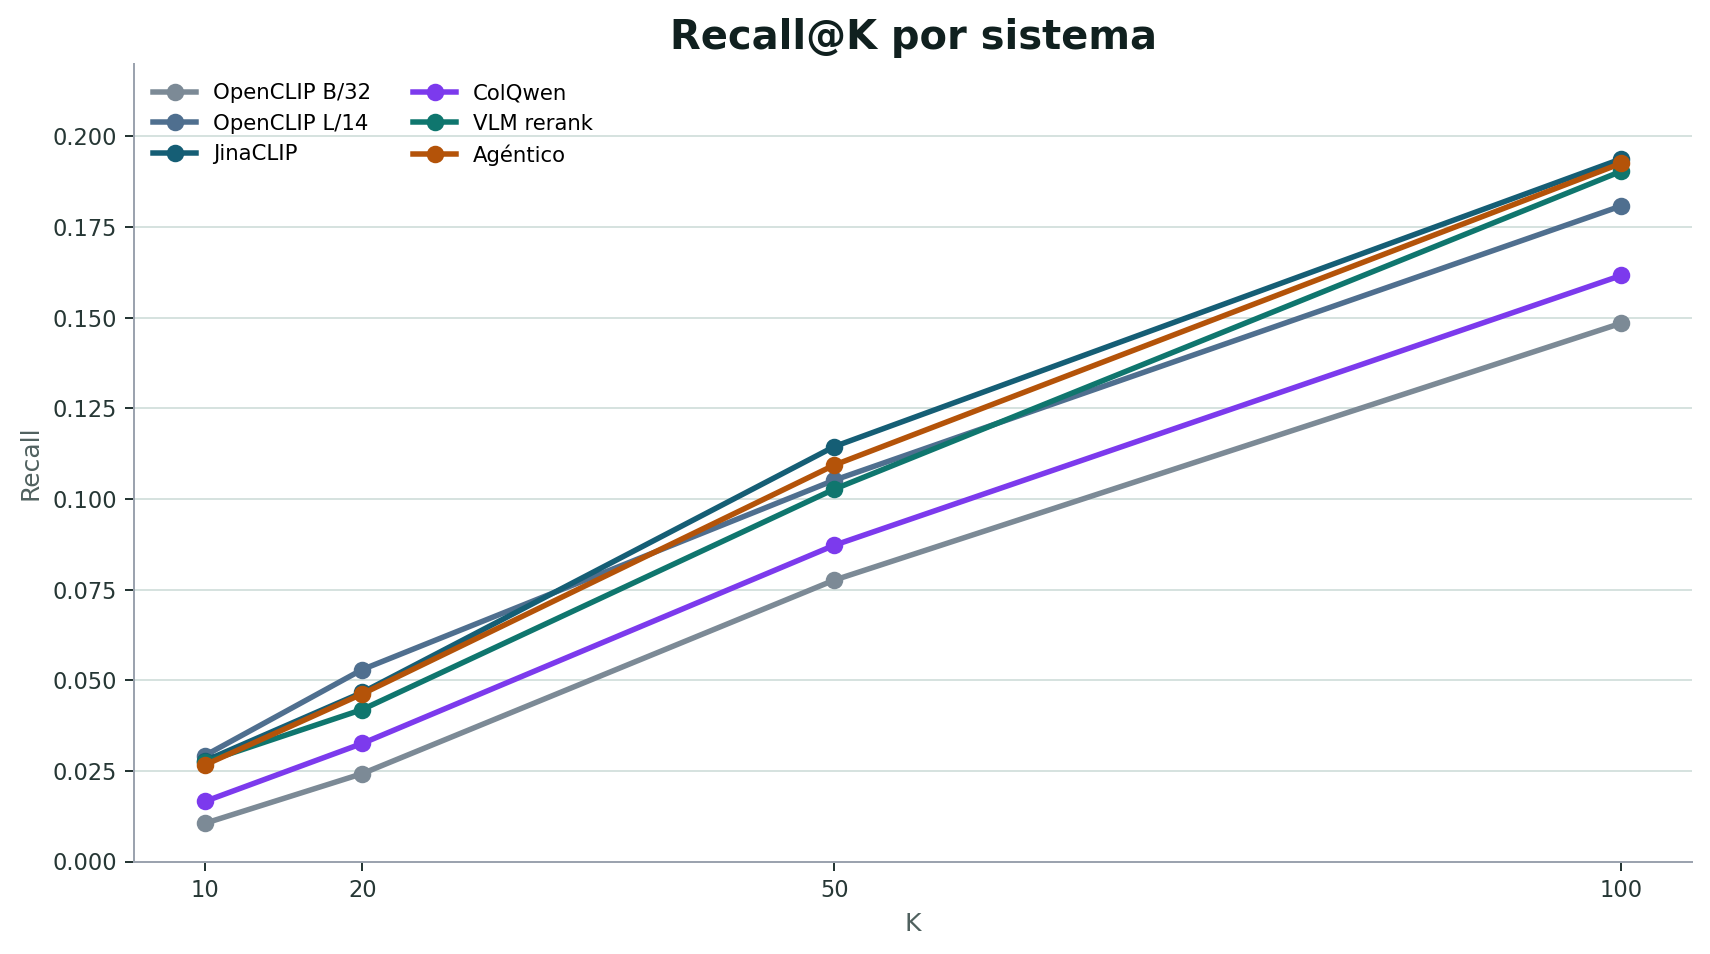
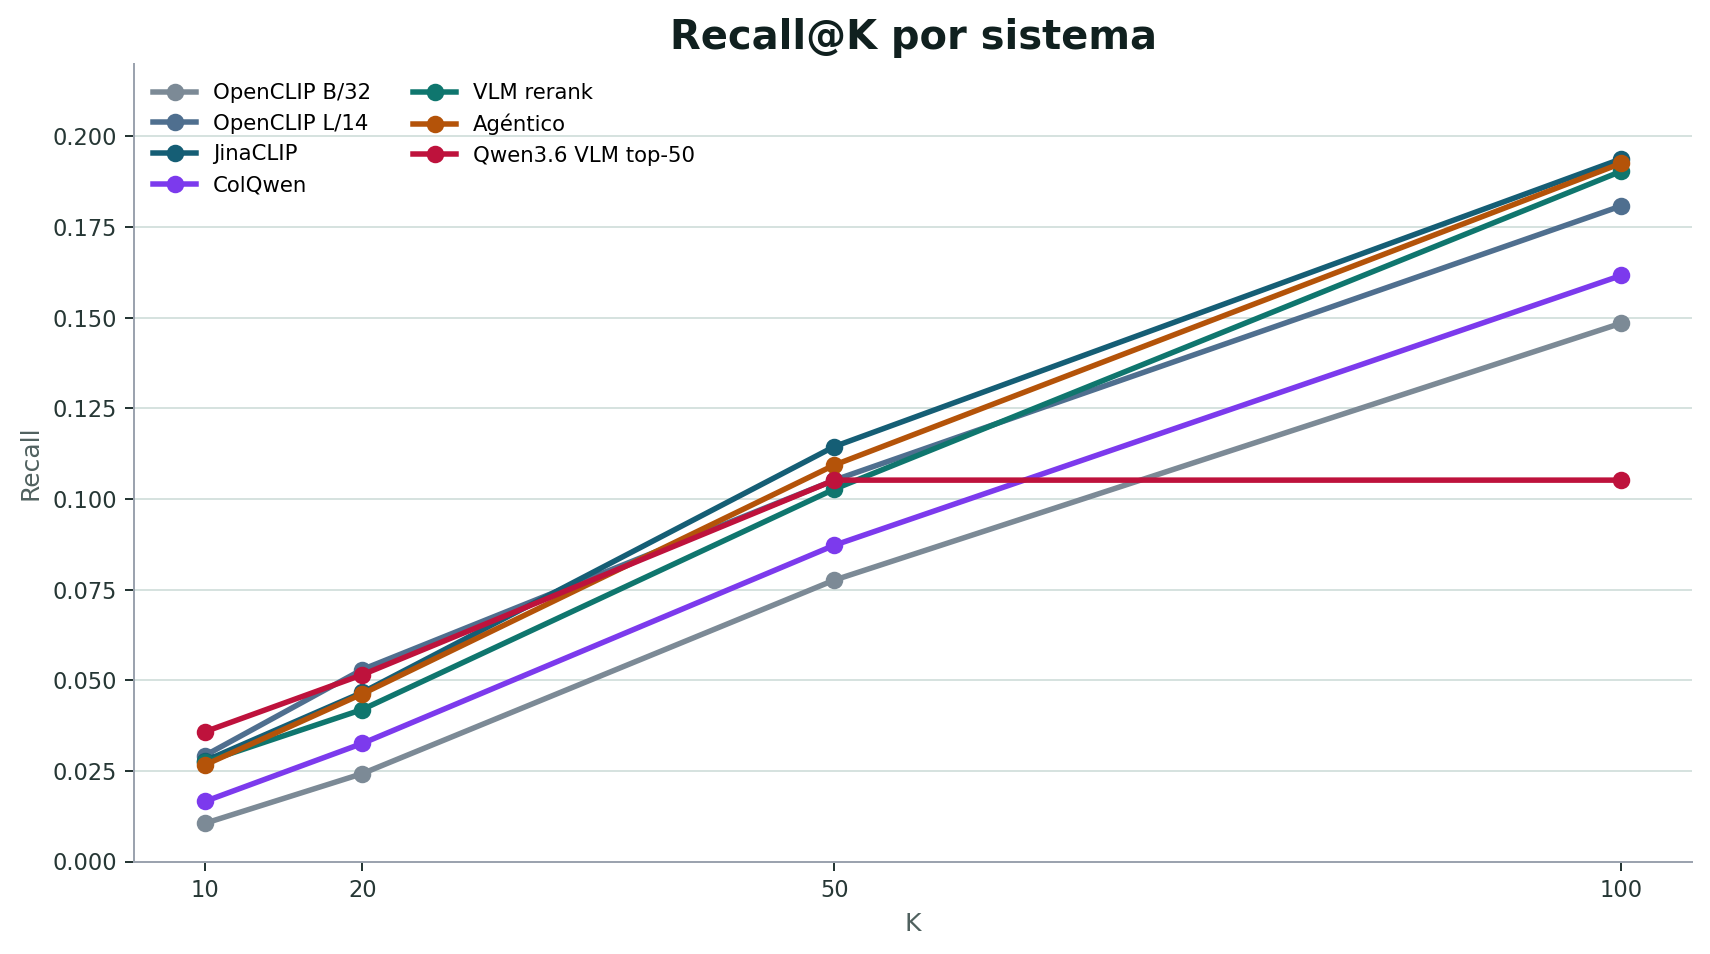
Integrate Qwen3.6 results into slides

diff --git a/slides/slidev/style.css b/slides/slidev/style.css
@@ -238,6 +238,10 @@
   object-fit: contain;
 }
 
+.chart.recall {
+  max-height: 392px;
+}
+
 .chart.inset {
   max-width: 100%;
   max-height: 392px;

diff --git a/scripts/build_slide_figures.py b/scripts/build_slide_figures.py
@@ -5,6 +5,8 @@ from __future__ import annotations
 
 import csv
 import json
+from collections import defaultdict
+from datetime import datetime
 from pathlib import Path
 
 import matplotlib.pyplot as plt
@@ -12,18 +14,19 @@ import pandas as pd
 
 
 RESULTS = Path("results/esalab-big/2026-06-30_gpu_full/outputs")
+QWEN_RESULTS = Path("results/mida-qwen36-27b/2026-06-30_zero_shot_top50/outputs")
 ASSETS = Path("slides/slidev/assets")
 
-SYSTEM_LABELS = {
-    "B1_openclip-vitb32_test": "OpenCLIP B/32",
-    "B1_openclip-vitl14_test": "OpenCLIP L/14",
-    "B1_jinaclip_test": "JinaCLIP",
-    "B3_colqwen_test": "ColQwen",
-    "B4_test": "VLM rerank",
-    "B5_full_test": "Agéntico",
-}
+SYSTEMS = [
+    (RESULTS, "B1_openclip-vitb32_test", "OpenCLIP B/32"),
+    (RESULTS, "B1_openclip-vitl14_test", "OpenCLIP L/14"),
+    (RESULTS, "B1_jinaclip_test", "JinaCLIP"),
+    (RESULTS, "B3_colqwen_test", "ColQwen"),
+    (RESULTS, "B4_test", "VLM rerank"),
+    (RESULTS, "B5_full_test", "Agéntico"),
+    (QWEN_RESULTS, "B4_qwen36_zero_shot_test", "Qwen3.6 VLM top-50"),
+]
 
-SYSTEM_ORDER = list(SYSTEM_LABELS)
 PALETTE = {
     "OpenCLIP B/32": "#7c8a96",
     "OpenCLIP L/14": "#4f6f8f",
@@ -31,6 +34,7 @@ PALETTE = {
     "ColQwen": "#7c3aed",
     "VLM rerank": "#0f766e",
     "Agéntico": "#b45309",
+    "Qwen3.6 VLM top-50": "#be123c",
 }
 
 LATENCY_LABELS = {
@@ -39,15 +43,16 @@ LATENCY_LABELS = {
     "colqwen": "ColQwen",
     "B4_VLM": "B4 VLM",
     "B5_agentic": "B5 agéntico",
+    "B4_qwen36_zero_shot": "Qwen3.6 VLM",
 }
 
 
 def load_metrics() -> pd.DataFrame:
     rows = []
-    for system in SYSTEM_ORDER:
-        path = RESULTS / "metrics" / f"{system}.json"
+    for root, system, label in SYSTEMS:
+        path = root / "metrics" / f"{system}.json"
         data = json.loads(path.read_text(encoding="utf-8"))
-        row = {"system": SYSTEM_LABELS[system]}
+        row = {"system": label}
         row.update(data["metrics"])
         rows.append(row)
     return pd.DataFrame(rows)
@@ -90,7 +95,7 @@ def save_recall_at_k(df: pd.DataFrame) -> None:
 
 def save_quality_bars(df: pd.DataFrame) -> None:
     fig, axes = plt.subplots(1, 3, figsize=(11.2, 4.5), dpi=180, sharey=False)
-    metrics = [("ndcg@100", "nDCG@100"), ("map", "mAP"), ("mrr", "MRR")]
+    metrics = [("ndcg@10", "nDCG@10"), ("map", "mAP"), ("mrr", "MRR")]
     for ax, (metric, title) in zip(axes, metrics):
         values = df[metric].tolist()
         labels = df["system"].tolist()
@@ -115,6 +120,8 @@ def save_latency_boxplot() -> None:
     if not path.exists():
         return
     rows = list(csv.DictReader(path.open(encoding="utf-8")))
+    qwen_trace = QWEN_RESULTS / "rerank_traces" / "B4_qwen36_zero_shot_test.jsonl"
+    rows.extend(trace_latency_rows("B4_qwen36_zero_shot", qwen_trace, top_k="50"))
     by_system: dict[str, list[float]] = {}
     for row in rows:
         by_system.setdefault(LATENCY_LABELS.get(row["system"], row["system"]), []).append(
@@ -122,15 +129,23 @@ def save_latency_boxplot() -> None:
         )
     if not by_system:
         return
-    order = ["OpenCLIP L/14", "JinaCLIP", "ColQwen", "B4 VLM", "B5 agéntico"]
+    order = ["OpenCLIP L/14", "JinaCLIP", "ColQwen", "B4 VLM", "B5 agéntico", "Qwen3.6 VLM"]
     labels = [label for label in order if label in by_system]
     labels.extend(label for label in by_system if label not in labels)
     values = [by_system[label] for label in labels]
 
     fig, ax = plt.subplots(figsize=(9.6, 5.2), dpi=180)
     box = ax.boxplot(values, tick_labels=labels, patch_artist=True, showmeans=True)
-    colors = ["#4f6f8f", "#155e75", "#7c3aed", "#0f766e", "#b45309"]
-    for patch, color in zip(box["boxes"], colors):
+    colors = {
+        "OpenCLIP L/14": "#4f6f8f",
+        "JinaCLIP": "#155e75",
+        "ColQwen": "#7c3aed",
+        "B4 VLM": "#0f766e",
+        "B5 agéntico": "#b45309",
+        "Qwen3.6 VLM": "#be123c",
+    }
+    for patch, label in zip(box["boxes"], labels):
+        color = colors.get(label, "#6b7280")
         patch.set_facecolor(color)
         patch.set_alpha(0.20)
         patch.set_edgecolor(color)
@@ -144,7 +159,7 @@ def save_latency_boxplot() -> None:
     ax.text(
         0.02,
         0.97,
-        "Escala log. Dense/ColQwen: benchmark con caché; B4/B5: marcas temporales de traces top-200",
+        "Escala log. Dense/ColQwen: benchmark con caché; B4/B5: trazas top-200; Qwen3.6: traza top-50",
         transform=ax.transAxes,
         va="top",
         fontsize=9,
@@ -153,6 +168,40 @@ def save_latency_boxplot() -> None:
     fig.tight_layout()
     fig.savefig(ASSETS / "latency_boxplot.png", bbox_inches="tight")
     plt.close(fig)
+
+
+def trace_latency_rows(label: str, path: Path, top_k: str) -> list[dict]:
+    if not path.exists():
+        return []
+    stamps: dict[str, list[datetime]] = defaultdict(list)
+    instruments: dict[str, str] = {}
+    for line in path.read_text(encoding="utf-8").splitlines():
+        if not line.strip():
+            continue
+        item = json.loads(line)
+        query_id = item.get("query_id")
+        stamp = item.get("timestamp_utc")
+        if not query_id or not stamp:
+            continue
+        stamps[query_id].append(datetime.fromisoformat(stamp.replace("Z", "+00:00")))
+        instruments[query_id] = item.get("instrument", "")
+
+    rows = []
+    for query_id, values in stamps.items():
+        if len(values) < 2:
+            continue
+        elapsed = (max(values) - min(values)).total_seconds()
+        rows.append(
+            {
+                "system": label,
+                "query_id": query_id,
+                "instrument": instruments.get(query_id, ""),
+                "latency_seconds": f"{elapsed:.6f}",
+                "source": "trace_span",
+                "top_k": top_k,
+            }
+        )
+    return rows
 
 
 def main() -> None:

diff --git a/slides/slidev/slides.md b/slides/slidev/slides.md
@@ -306,10 +306,10 @@ Esto permite distinguir entre capacidad de encontrar candidatos y capacidad de o
 
 ## Resultados: Recall@K
 
-<img class="chart" src="./assets/metrics_recall_at_k.png" />
+<img class="chart recall" src="./assets/metrics_recall_at_k.png" />
 
 <p class="small center">
-JinaCLIP obtiene el mejor Recall@100 entre los sistemas de recuperación directa. El reranking mejora la ordenación, pero no puede recuperar imágenes que no entraron en el conjunto candidato.
+JinaCLIP obtiene el mejor Recall@100 entre los sistemas de recuperación directa. Qwen3.6 se muestra como reranker top-50: mejora señales tempranas, pero su recall queda limitado por el conjunto candidato.
 </p>
 
 ---
@@ -319,7 +319,7 @@ JinaCLIP obtiene el mejor Recall@100 entre los sistemas de recuperación directa
 <img class="chart" src="./assets/metrics_quality_bars.png" />
 
 <p class="small center">
-La búsqueda agéntica obtiene el mejor MRR, lo que indica que tiende a colocar resultados relevantes antes en el ranking.
+Qwen3.6 obtiene el mejor nDCG@10 y MRR en la comparación top-50, mientras que el sistema agéntico mantiene un mejor equilibrio entre recall, mAP y ordenación en top-200.
 </p>
 
 ---
@@ -333,6 +333,7 @@ La búsqueda agéntica obtiene el mejor MRR, lo que indica que tiende a colocar 
 | Dense retrieval | Muy competitivo y barato; JinaCLIP lidera Recall@100 y mAP. |
 | Late interaction | No domina en promedio, pero ayuda en clases con señales locales. |
 | VLM reranking | Mejora la ordenación de candidatos, especialmente nDCG/MRR. |
+| Qwen3.6-27B VLM | Aumenta la calidad de las primeras posiciones, pero la prueba top-50 no amplía cobertura. |
 | Agentic reranking | Añade valor cuando la inspección completa no basta, pero aumenta el coste. |
 
 </div>
@@ -360,10 +361,11 @@ La comparación temporal debe leerse como parte del diseño del sistema:
 - OpenCLIP L/14: 0.019 s/consulta; JinaCLIP: 0.104 s/consulta.
 - ColQwen: 0.479 s/consulta con embeddings de corpus cacheados.
 - B4 VLM: 30.1 s/consulta; B5 agéntico: 44.9 s/consulta.
+- Qwen3.6-27B: 154.9 s/consulta en top-50, servido en MIDA vía llama.cpp multimodal.
 - B5 tiene una cola más larga por recortes, captions y llamadas adicionales.
 
 <p class="small">
-Box-and-whisker en escala logarítmica. Dense/ColQwen se midieron con benchmark por consulta; B4/B5 se estiman desde marcas temporales de traces.
+Box-and-whisker en escala logarítmica. Dense/ColQwen se midieron con benchmark por consulta; B4/B5/Qwen3.6 se estiman desde marcas temporales de traces.
 </p>
 
 </div>
@@ -377,15 +379,15 @@ Box-and-whisker en escala logarítmica. Dense/ColQwen se midieron con benchmark 
 1. La tarea es útil para explorar archivos audiovisuales de patrimonio musical cuando el usuario busca por instrumentos, no por metadatos técnicos.
 2. Un dataset anotado convierte el corpus en un banco de pruebas cuantitativo para sistemas de IR visual.
 3. Los modelos densos son una base sólida y eficiente.
-4. Los VLMs y la búsqueda agéntica aportan mejoras de ordenación, especialmente en MRR, pero dependen de la calidad del conjunto candidato.
+4. Los VLMs y la búsqueda agéntica aportan mejoras de ordenación, especialmente en MRR; Qwen3.6 confirma este efecto en top-50, aunque con mayor coste temporal.
 5. El coste temporal debe considerarse junto a la métrica: el mejor ranking no siempre es el sistema más operativo.
 
 ---
 
 ## Futuras líneas de trabajo
 
-- Medir latencia completa por query para todos los enfoques bajo el mismo entorno y con cachés controladas.
-- Evaluar VLMs más recientes, incluyendo Qwen3.6-27B servido con soporte multimodal.
+- Repetir Qwen3.6-27B en top-200 y bajo el mismo entorno GPU para separar calidad del modelo, red y coste de serving.
+- Medir latencia completa por query para todos los enfoques bajo cachés y hardware controlados.
 - Llevar la evaluación de frames a recuperación de vídeos completos.
 - Integrar señales temporales: múltiples frames, audio y contexto de actuación.
 - Añadir aprendizaje específico para instrumentos visualmente cercanos.
@@ -399,4 +401,5 @@ Box-and-whisker en escala logarítmica. Dense/ColQwen se midieron con benchmark 
 - Zendron et al., “Comprehensive dataset of Portuguese folk instruments for computer vision and heritage research”, Data in Brief 61, 2025. DOI `10.1016/j.dib.2025.111739`.
 - Dataset publicado en Mendeley Data: DOI `10.17632/pk7txkgt4v.2`.
 - Figuras del dataset: artículo en PubMed Central `PMC12205808`.
+- Qwen3.6-27B GGUF multimodal servido con llama.cpp y `mmproj-F16.gguf`.
 - Ilustraciones de caso de estudio y sistemas: generadas con `imagegen` para esta presentación.